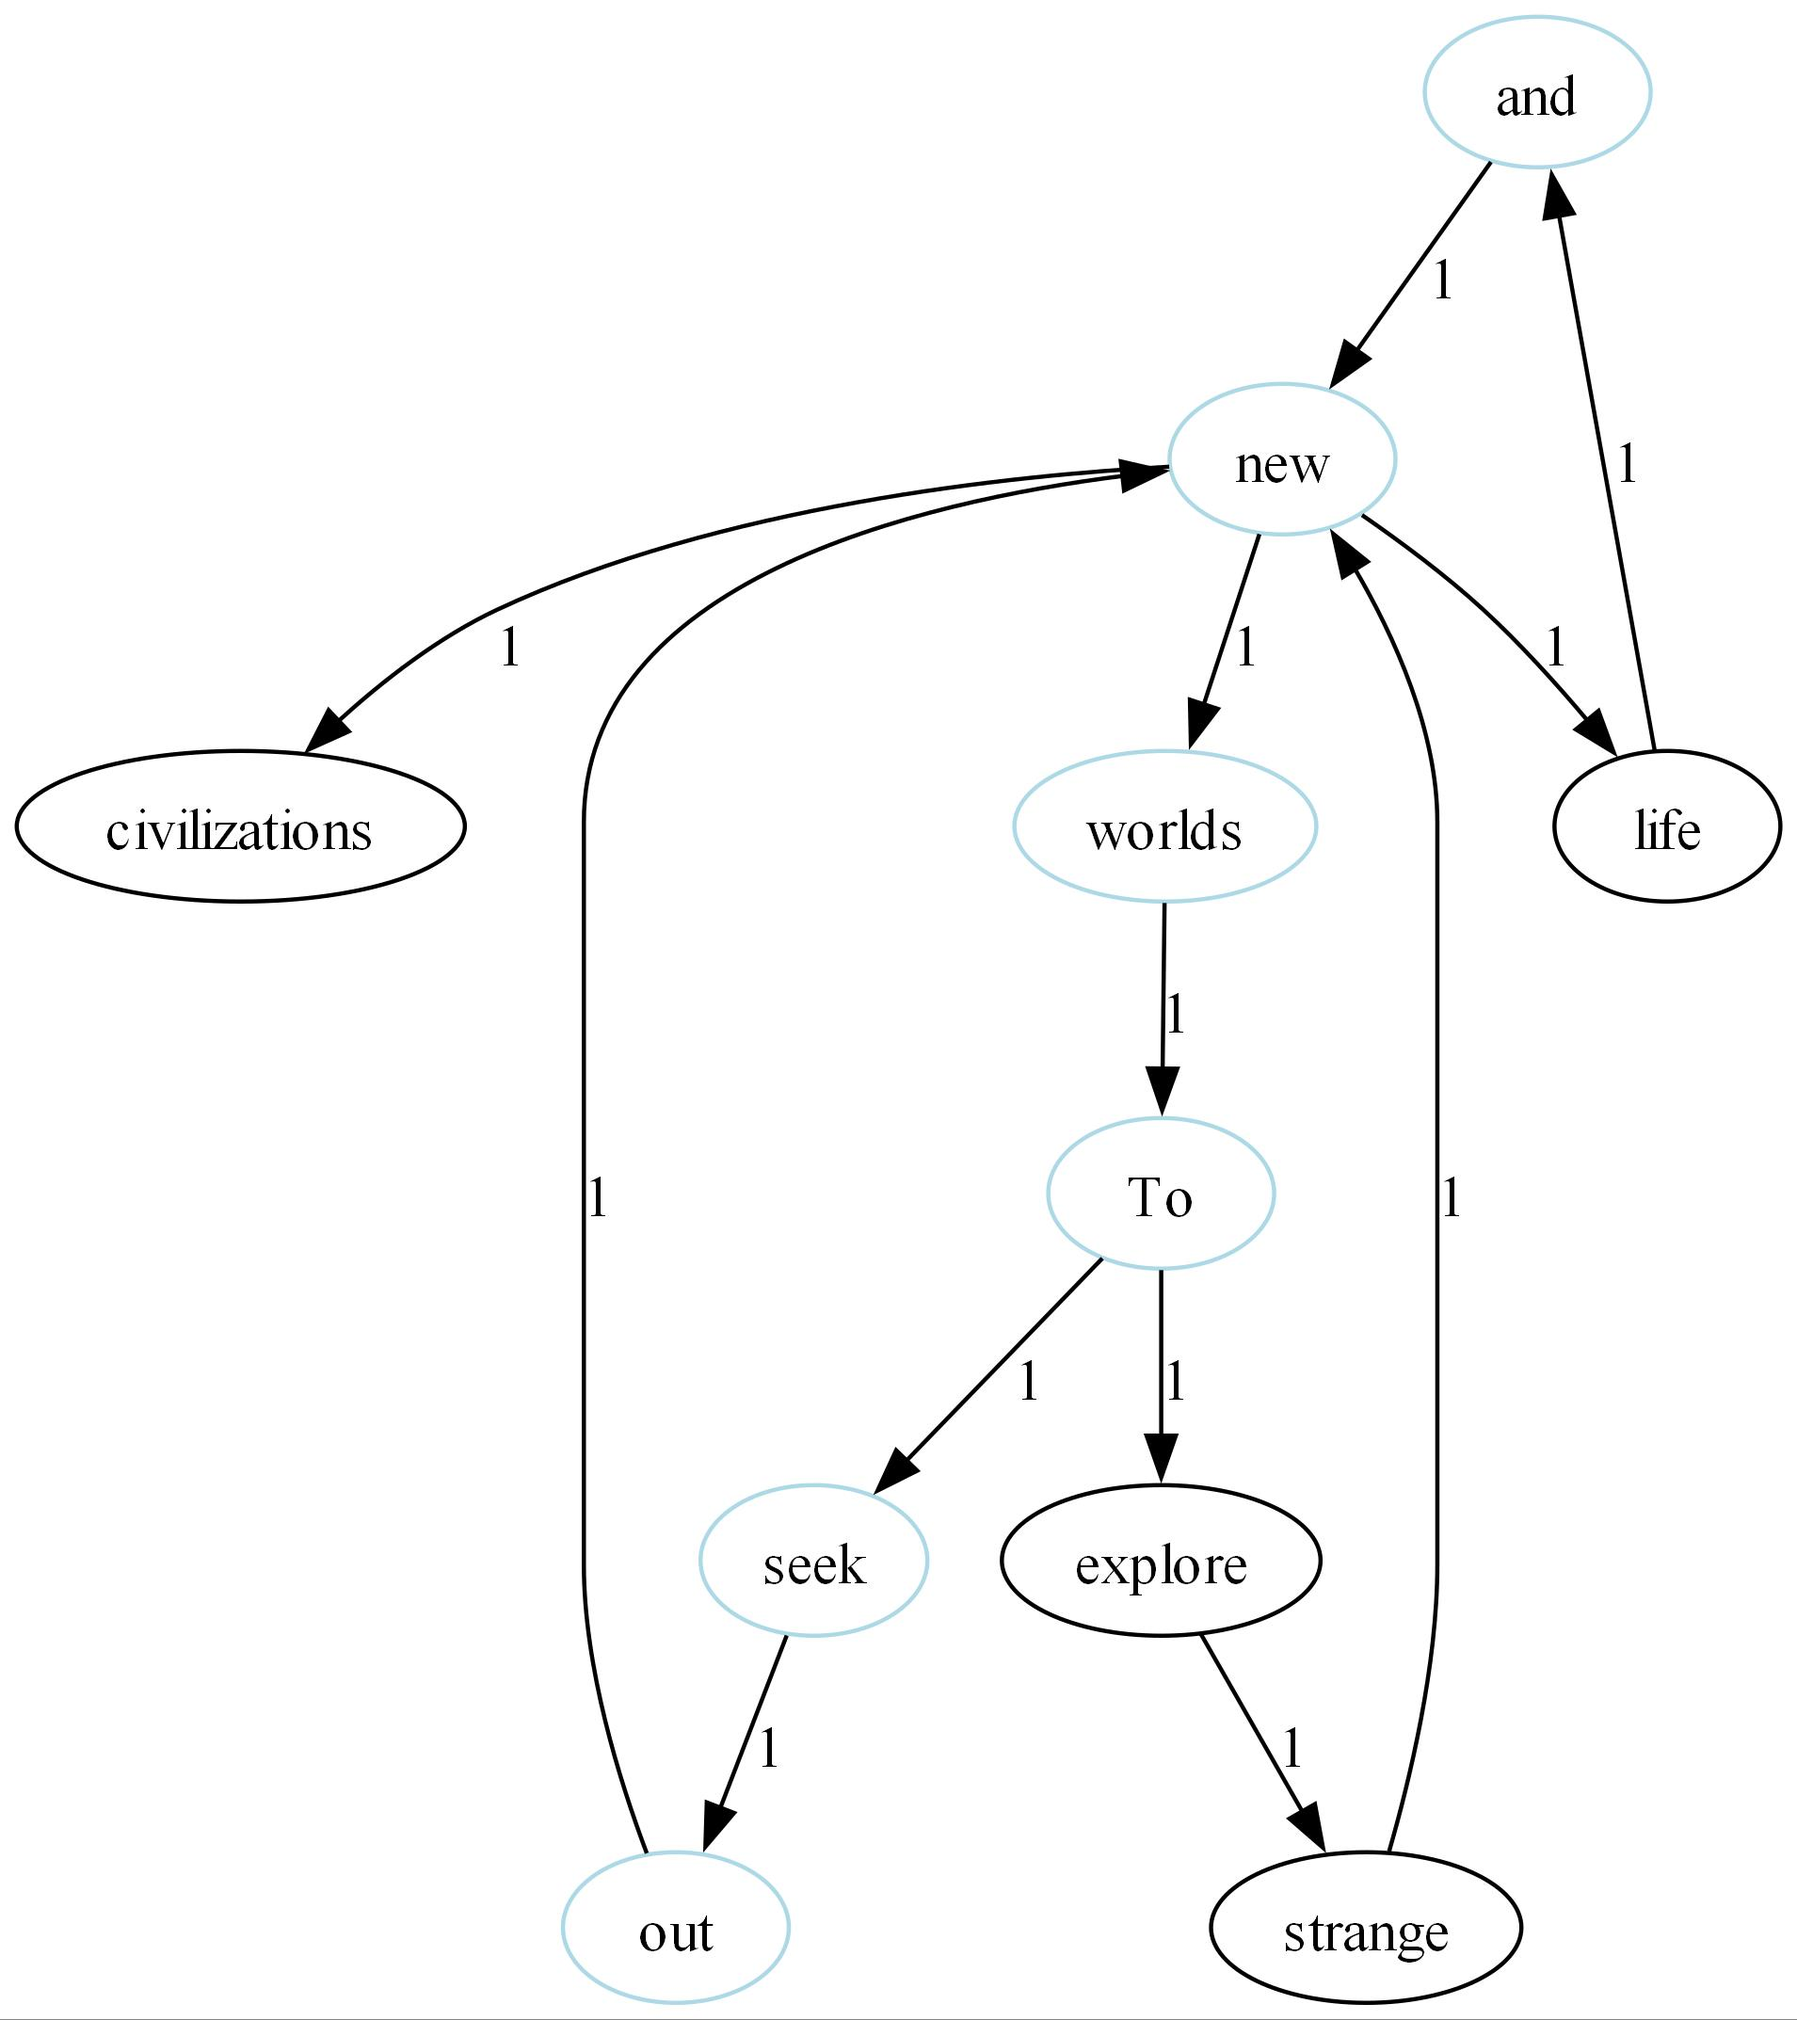
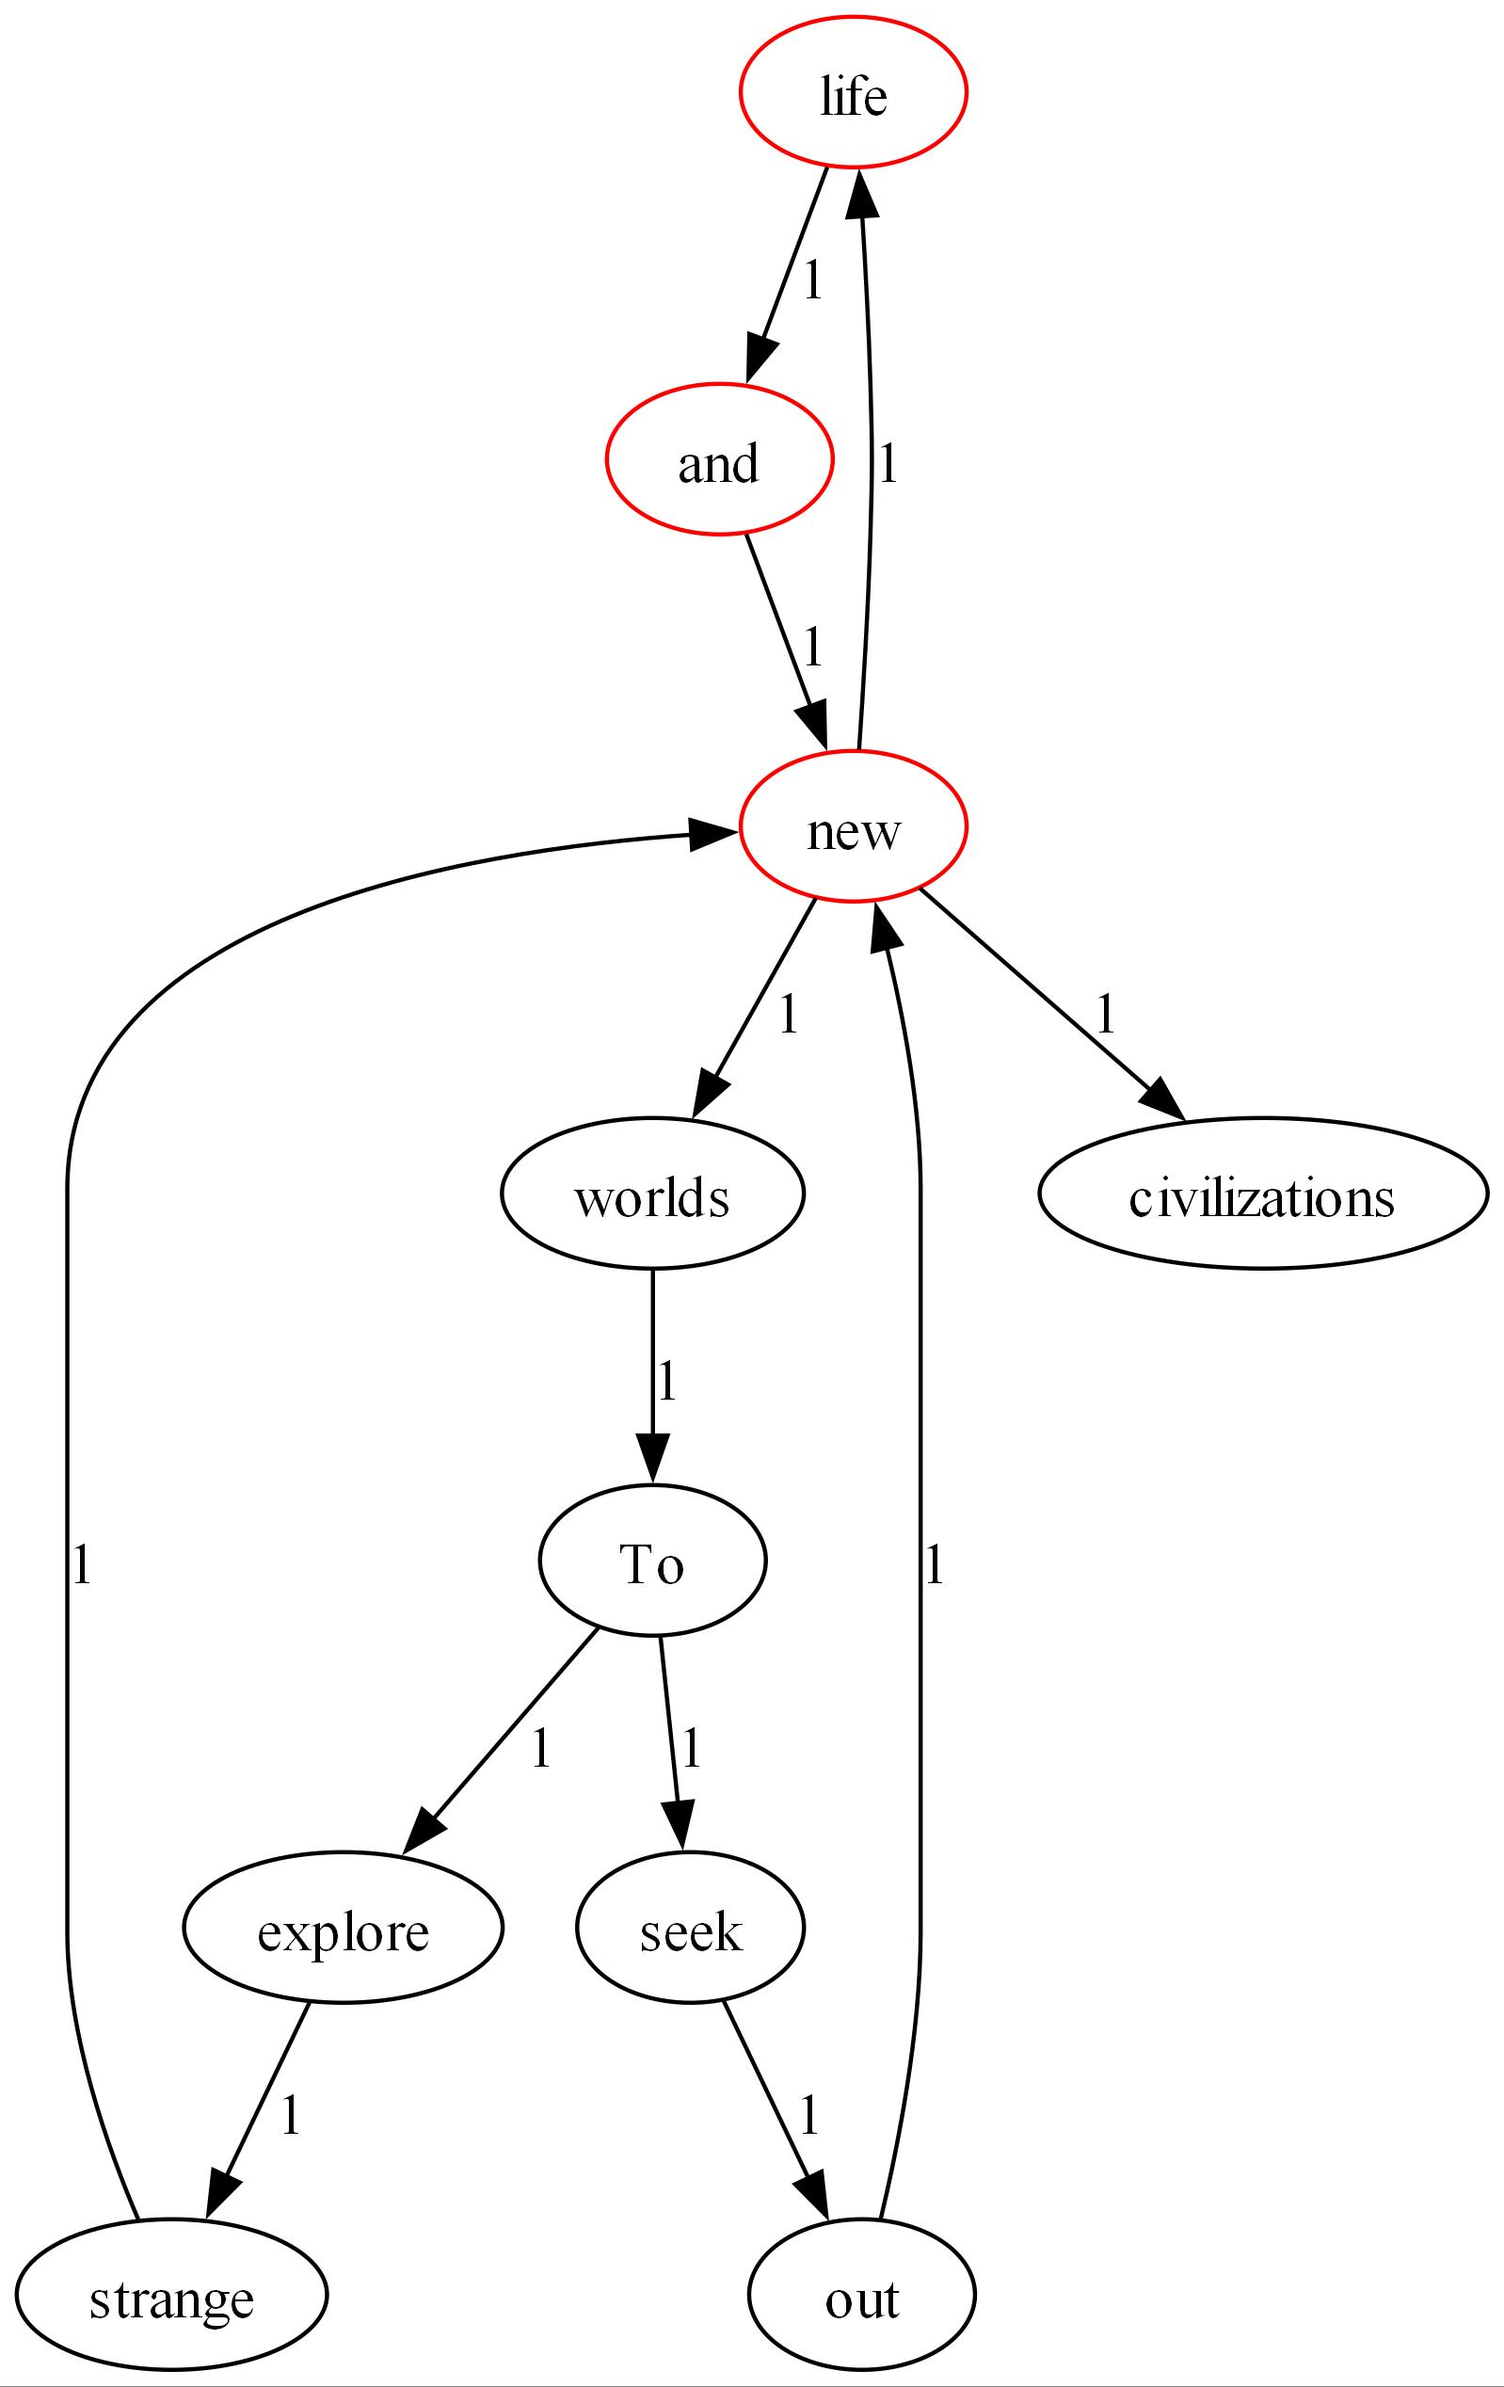
all

diff --git a/src/Graph/DrawGraphic.java b/src/Graph/DrawGraphic.java
@@ -120,7 +120,7 @@ public class DrawGraphic {
             String s = GenerateDotCommand();
             for (String e : source) {
                 System.out.println(e);
-                DotCommandBuilder.append(e + " [color=\"lightblue\"];");
+                DotCommandBuilder.append(e + " [color=\"red\"];");
             }
             DotCommandBuilder.append(s);
             generateGraphImage(DotCommandBuilder.toString(), "src/tmp_s");

diff --git a/src/GUI/MyFrame.java b/src/GUI/MyFrame.java
@@ -2,9 +2,6 @@ package src.GUI;
 
 import javax.swing.*;
 
-import java.awt.event.ActionEvent;
-import java.awt.event.ActionListener;
-
 public class MyFrame extends JFrame {
     static JFrame mainFrame;
 
